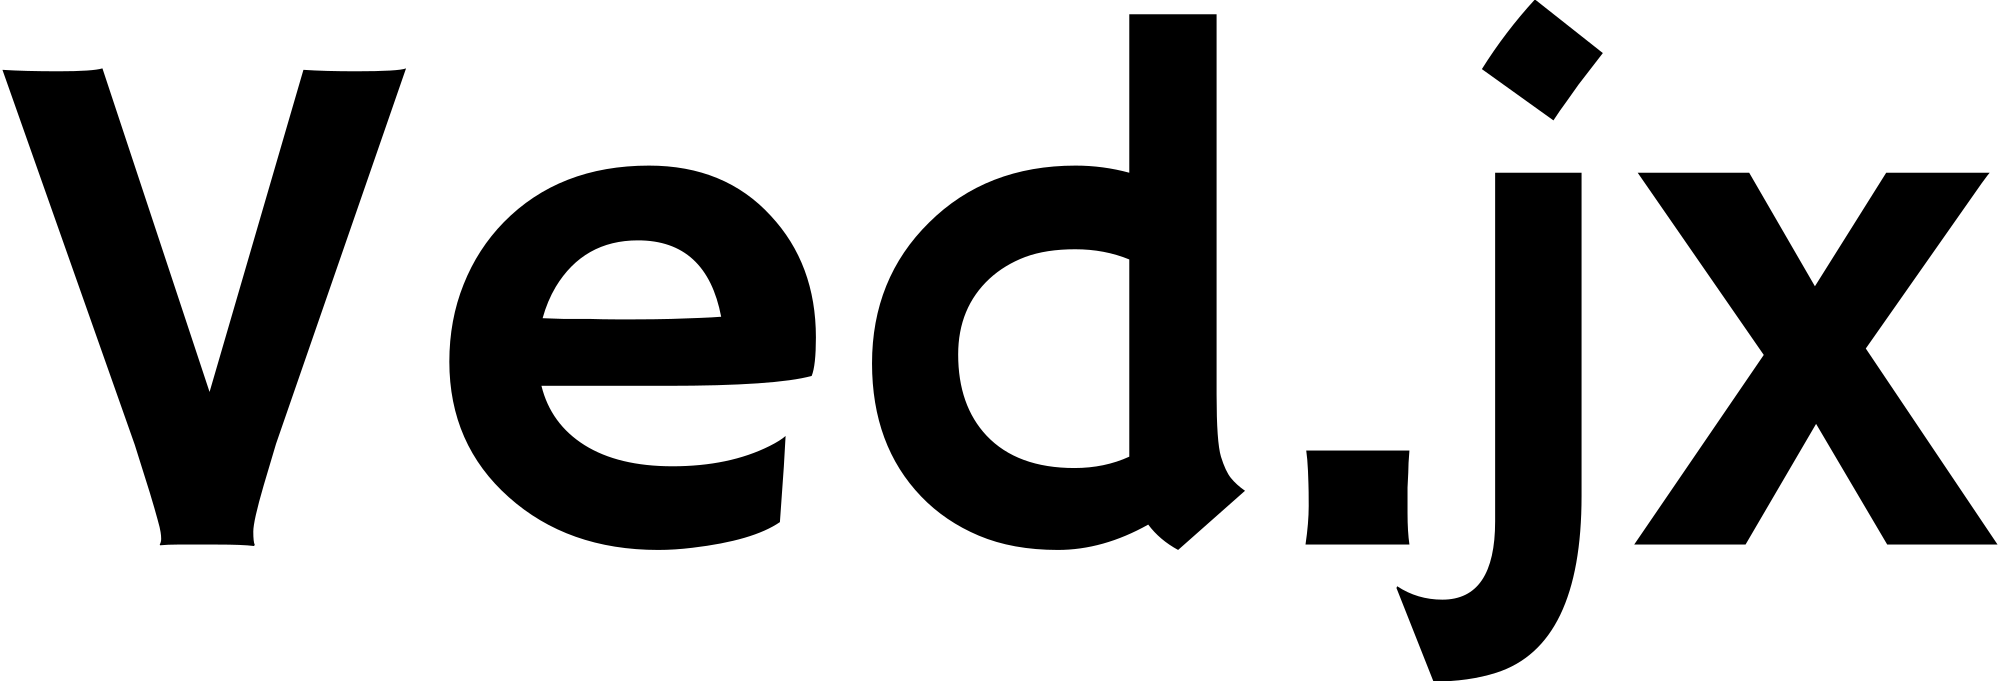
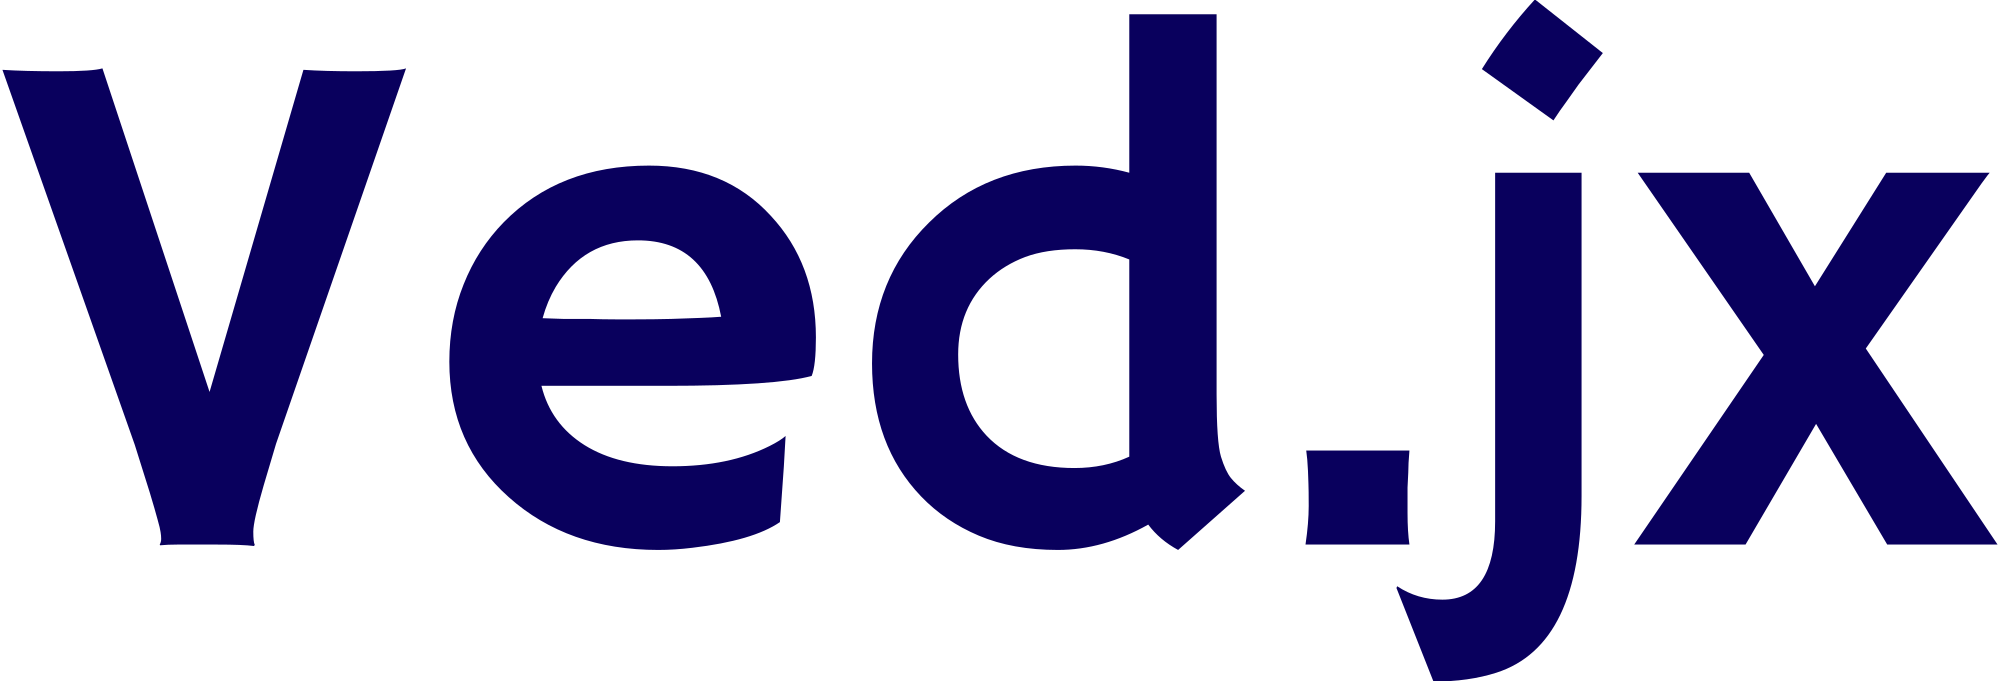
style: Navbar fading in and out

diff --git a/src/components/Navbar.jsx b/src/components/Navbar.jsx
@@ -1,22 +1,40 @@
-import React from 'react'
-import logo from '../assets/white.png';
+import { useState }from 'react'
+import logo from '../assets/black.png';
 import { Icon } from '@iconify/react';
 
 const Navbar = () => {
-  return (
-    <div className='bg-black/90 text-3xl w-full h-[90px] flex justify-between items-center fixed z-50'>
-      <div className='pl-5'>
-        <img className="min-w-[70px] w-[70px]" src={logo} />
-      </div>
-      <div className='md:flex justify-between items-center pr-5 text-white text-[20px] font-medium w-[400px] hidden'>
-        <h1 className='cursor-pointer'>Home</h1>
-        <h1 className='cursor-pointer'>Services</h1>
-        <h1 className='cursor-pointer'>Our Work</h1>
-        <h1 className='cursor-pointer'>Contact</h1>
-      </div>
 
-      <div className='flex md:hidden text-white pr-5'>
-        <Icon className="text-[55px]" icon="majesticons:menu" />
+  const [color, setColor] = useState(false);
+
+  const handleScroll = () => {
+    if (window.scrollY >= 90) {
+      setColor(true);
+    }
+    else {
+      setColor(false);
+    }
+  }
+
+  window.addEventListener('scroll', handleScroll);
+  return (
+    <div className={`text-3xl ${color ? 'bg-[#99ccff]' : ''} text-[#09005d] duration-150 w-full h-[90px] flex justify-between items-center fixed z-50 mx-auto`}>
+      <div className='flex justify-between items-center z-50 w-[1280px] relative mx-auto'>
+
+        <div className='pl-5'>
+          <img className="min-w-[70px] w-[70px] cursor-pointer" src={logo} />
+        </div>
+
+        <div className='md:flex justify-between items-center pr-5 text-[20px] font-semibold w-[400px] hidden select-none'>
+          <h1 className='cursor-pointer'>Home</h1>
+          <h1 className='cursor-pointer'>Services</h1>
+          <h1 className='cursor-pointer'>Our Work</h1>
+          <h1 className='cursor-pointer'>Contact</h1>
+        </div>
+
+        <div className='flex md:hidden pr-5'>
+          <Icon className="text-[55px] cursor-pointer" icon="majesticons:menu" />
+        </div>
+
       </div>
     </div>
   )

diff --git a/src/pages/Hero.jsx b/src/pages/Hero.jsx
@@ -1,0 +1,18 @@
+import React from 'react'
+import HeroImage from '../assets/hero_image.png';
+
+const Hero = () => {
+  return (
+    <div className='md:flex-row flex-col flex w-[1280px] h-screen justify-between items-center mx-auto px-5'>
+      <div className='md:w-1/2 w-full'>
+        <h1>Ved.jx</h1>
+      </div>
+
+      <div className='min-w-[500px] md:w-1/2 w-full'>
+        <img src={HeroImage} />
+      </div>
+    </div>
+  )
+}
+
+export default Hero

diff --git a/src/index.css b/src/index.css
@@ -10,7 +10,9 @@
   }
 
   body {
-    font-family: 'Mulish', sans-serif;
+    font-family: 'Segoe UI', sans-serif;
     -webkit-font-smoothing: antialiased;
     -moz-osx-font-smoothing: grayscale;
+    background: rgb(2,0,36);
+    background: linear-gradient(90deg, rgb(102, 96, 212) 0%, rgb(106, 106, 219) 35%, rgba(0,212,255,1) 100%);
   }

diff --git a/src/App.jsx b/src/App.jsx
@@ -1,10 +1,12 @@
 import Navbar from './components/Navbar';
+import Hero from './pages/Hero';
 
 function App() {
 
   return (
     <>
       <Navbar />
+      <Hero />
     </>
   )
 }
